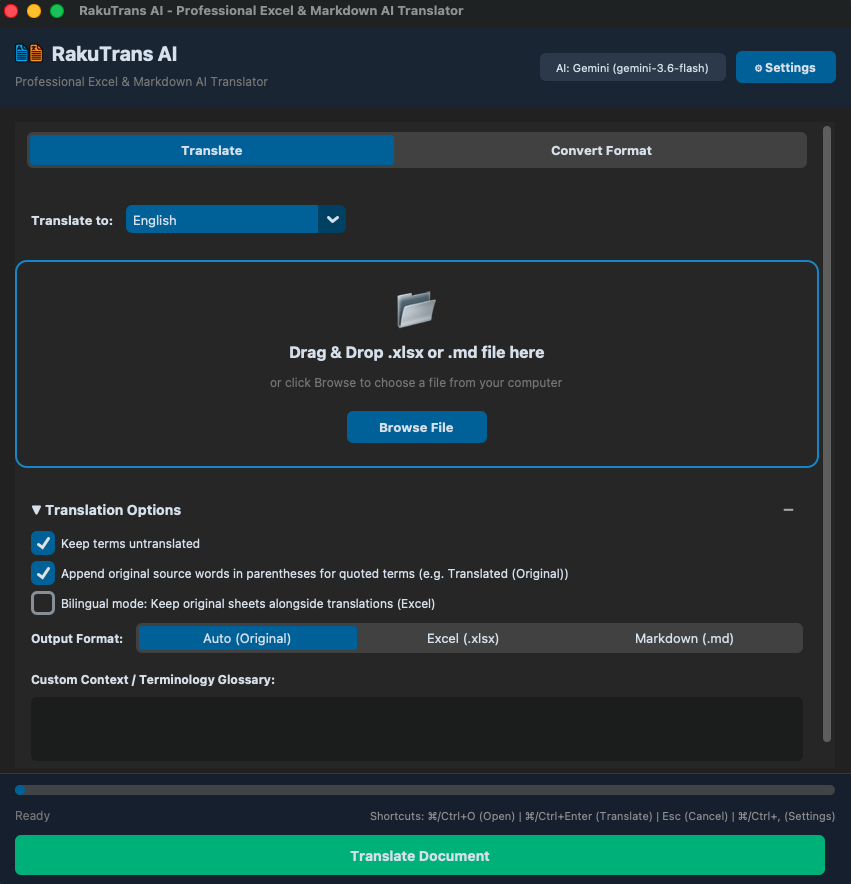
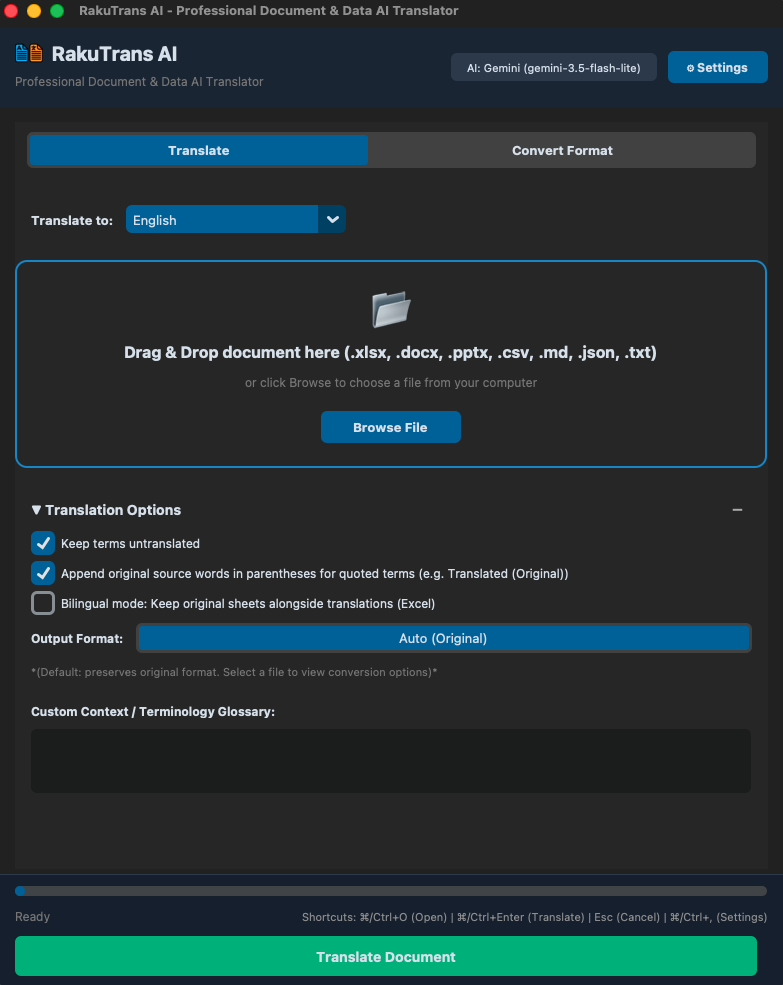
feat: add autohiding scrollbars and dynamic format hints to UI

diff --git a/ui.py b/ui.py
@@ -178,6 +178,7 @@ class RakuTransApp(ctk.CTk):
         self.body_scroll = ctk.CTkScrollableFrame(self, corner_radius=0)
         self.body_scroll.grid(row=1, column=0, sticky="nsew", padx=20, pady=(15, 5))
         self.body_scroll.grid_columnconfigure(0, weight=1)
+        self._enable_autohide_scrollbar(self.body_scroll)
 
         # 0. Mode Switcher (Translate / Convert)
         self._build_mode_switcher()
@@ -202,6 +203,33 @@ class RakuTransApp(ctk.CTk):
 
         # Apply initial mode visibility
         self._apply_mode_visibility()
+
+    def _enable_autohide_scrollbar(self, scrollable_frame: ctk.CTkScrollableFrame):
+        """Dynamically hides the scrollbar when content fits inside the window without scrolling."""
+        orig_set = scrollable_frame._scrollbar.set
+        canvas = scrollable_frame._parent_canvas
+        scrollbar = scrollable_frame._scrollbar
+        border_spacing = scrollable_frame._apply_widget_scaling(
+            scrollable_frame._parent_frame.cget("corner_radius") + scrollable_frame._parent_frame.cget("border_width")
+        )
+        border_padding = (0, scrollable_frame._border_width + 1)
+
+        def autohide_set(start_value: float, end_value: float):
+            orig_set(start_value, end_value)
+            try:
+                start = float(start_value)
+                end = float(end_value)
+                if start <= 0.0 and end >= 1.0:
+                    if scrollbar.winfo_ismapped():
+                        scrollbar.grid_remove()
+                else:
+                    if not scrollbar.winfo_ismapped():
+                        scrollbar.grid(row=1, column=1, sticky="nsew", padx=border_padding, pady=border_spacing)
+            except Exception:
+                pass
+
+        canvas.configure(yscrollcommand=autohide_set)
+        self.after(50, lambda: autohide_set(*canvas.yview()))
 
     # -------------------------------------------------------------------------
     # Mode Switcher
@@ -392,7 +420,7 @@ class RakuTransApp(ctk.CTk):
 
         # Output Format Selector
         fmt_frame = ctk.CTkFrame(self.options_body, fg_color="transparent")
-        fmt_frame.pack(fill="x", padx=16, pady=(0, 8))
+        fmt_frame.pack(fill="x", padx=16, pady=(0, 4))
 
         self.fmt_label = ctk.CTkLabel(
             fmt_frame,
@@ -409,6 +437,14 @@ class RakuTransApp(ctk.CTk):
             height=30
         )
         self.fmt_segmented.pack(side="left", fill="x", expand=True)
+
+        self.fmt_hint_label = ctk.CTkLabel(
+            self.options_body,
+            text="",
+            font=ctk.CTkFont(size=11),
+            text_color="gray"
+        )
+        self.fmt_hint_label.pack(anchor="w", padx=16, pady=(0, 8))
         self._update_format_selector()
 
         # Custom Context Prompt Label
@@ -839,8 +875,33 @@ class RakuTransApp(ctk.CTk):
             ext = Path(self.selected_file).suffix.lower().lstrip(".")
             convert_targets = get_convert_options(ext)
             available_keys = ["auto"] + convert_targets
+
+            # Dynamically enable/disable bilingual mode for Excel
+            is_excel = ext == "xlsx"
+            if hasattr(self, "bilingual_cb"):
+                self.bilingual_cb.configure(state="normal" if is_excel else "disabled")
+
+            if hasattr(self, "fmt_hint_label"):
+                if convert_targets:
+                    readable_targets = ", ".join(fmt_labels.get(k, k.upper()) for k in convert_targets)
+                    self.fmt_hint_label.configure(
+                        text=f"💡 {self.i18n.t('fmt_hint_converted')} .{ext}: {readable_targets}",
+                        text_color=("#2563EB", "#60A5FA")
+                    )
+                else:
+                    self.fmt_hint_label.configure(
+                        text=f"ℹ {self.i18n.t('fmt_hint_same_format')} (.{ext})",
+                        text_color="gray"
+                    )
         else:
-            available_keys = ["auto", "xlsx", "md"]
+            available_keys = ["auto"]
+            if hasattr(self, "bilingual_cb"):
+                self.bilingual_cb.configure(state="normal")
+            if hasattr(self, "fmt_hint_label"):
+                self.fmt_hint_label.configure(
+                    text=self.i18n.t("fmt_hint_no_file"),
+                    text_color="gray"
+                )
 
         self.fmt_display_map = {k: fmt_labels.get(k, k.upper()) for k in available_keys}
         self.fmt_value_map = {v: k for k, v in self.fmt_display_map.items()}

diff --git a/i18n.py b/i18n.py
@@ -31,6 +31,9 @@ TRANSLATIONS: Dict[str, Dict[str, str]] = {
         "fmt_word": "Word (.docx)",
         "fmt_csv": "CSV (.csv)",
         "fmt_text": "Text (.txt)",
+        "fmt_hint_no_file": "*(Default: preserves original format. Select a file to view conversion options)*",
+        "fmt_hint_converted": "Available conversion formats for",
+        "fmt_hint_same_format": "Output will preserve original format",
         "custom_prompt_label": "Custom Context / Terminology Glossary:",
         "custom_prompt_placeholder": "e.g., 'This is an e-commerce checkout specification. Keep SKU codes untouched.'",
         
@@ -169,6 +172,9 @@ TRANSLATIONS: Dict[str, Dict[str, str]] = {
         "fmt_word": "Word (.docx)",
         "fmt_csv": "CSV (.csv)",
         "fmt_text": "テキスト (.txt)",
+        "fmt_hint_no_file": "*(デフォルト: 入力と同じ形式。ファイルを選択すると変換先が表示されます)*",
+        "fmt_hint_converted": "変換可能な出力形式:",
+        "fmt_hint_same_format": "元のファイル形式のまま出力されます",
         "custom_prompt_label": "カスタム背景情報・用語集 (Prompt):",
         "custom_prompt_placeholder": "例: 「ECサイトの決済画面に関する設計書です。注文ステータス用語はそのままにしてください」",
         
@@ -307,6 +313,9 @@ TRANSLATIONS: Dict[str, Dict[str, str]] = {
         "fmt_word": "Word (.docx)",
         "fmt_csv": "CSV (.csv)",
         "fmt_text": "Văn bản (.txt)",
+        "fmt_hint_no_file": "*(Mặc định: Giữ nguyên định dạng gốc. Chọn file để hiển thị các định dạng chuyển đổi khả dụng)*",
+        "fmt_hint_converted": "Định dạng chuyển đổi khả dụng cho file",
+        "fmt_hint_same_format": "File sẽ được xuất giữ nguyên định dạng gốc",
         "custom_prompt_label": "Ngữ cảnh tùy chỉnh / Bảng thuật ngữ dự án:",
         "custom_prompt_placeholder": "VD: 'Đây là tài liệu đặc tả chức năng thanh toán thương mại điện tử. Giữ nguyên mã SKU.'",
         
